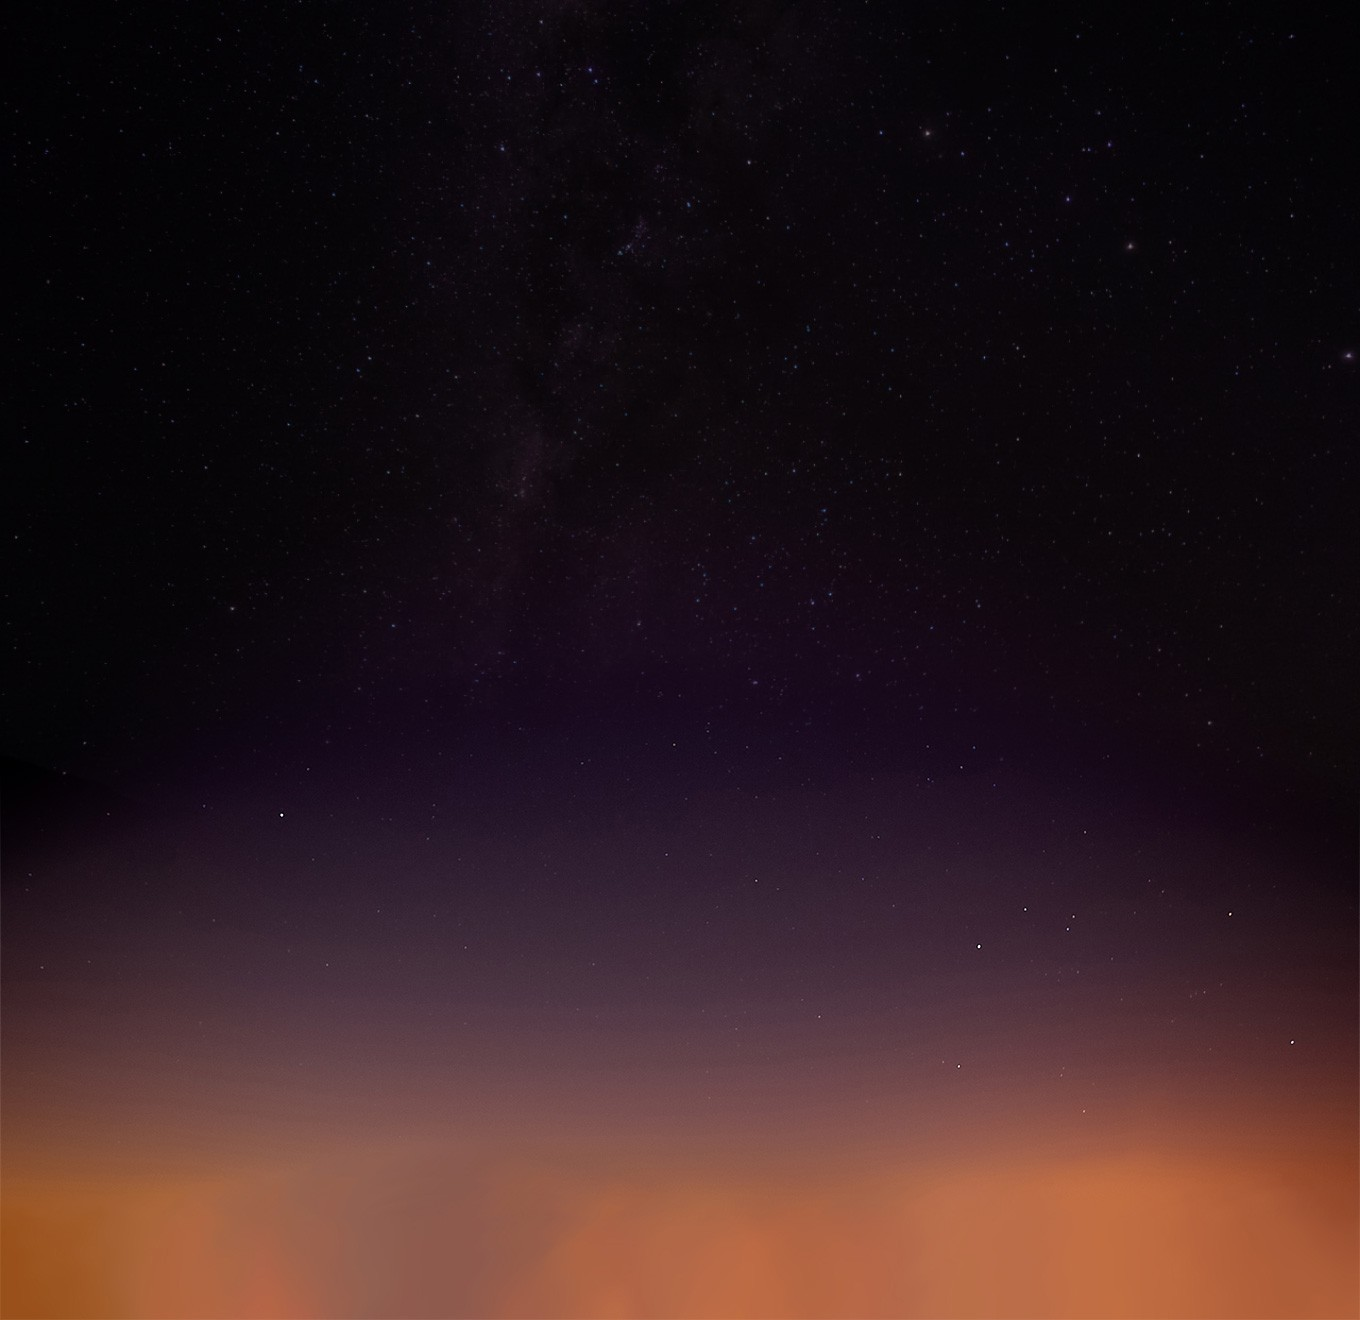
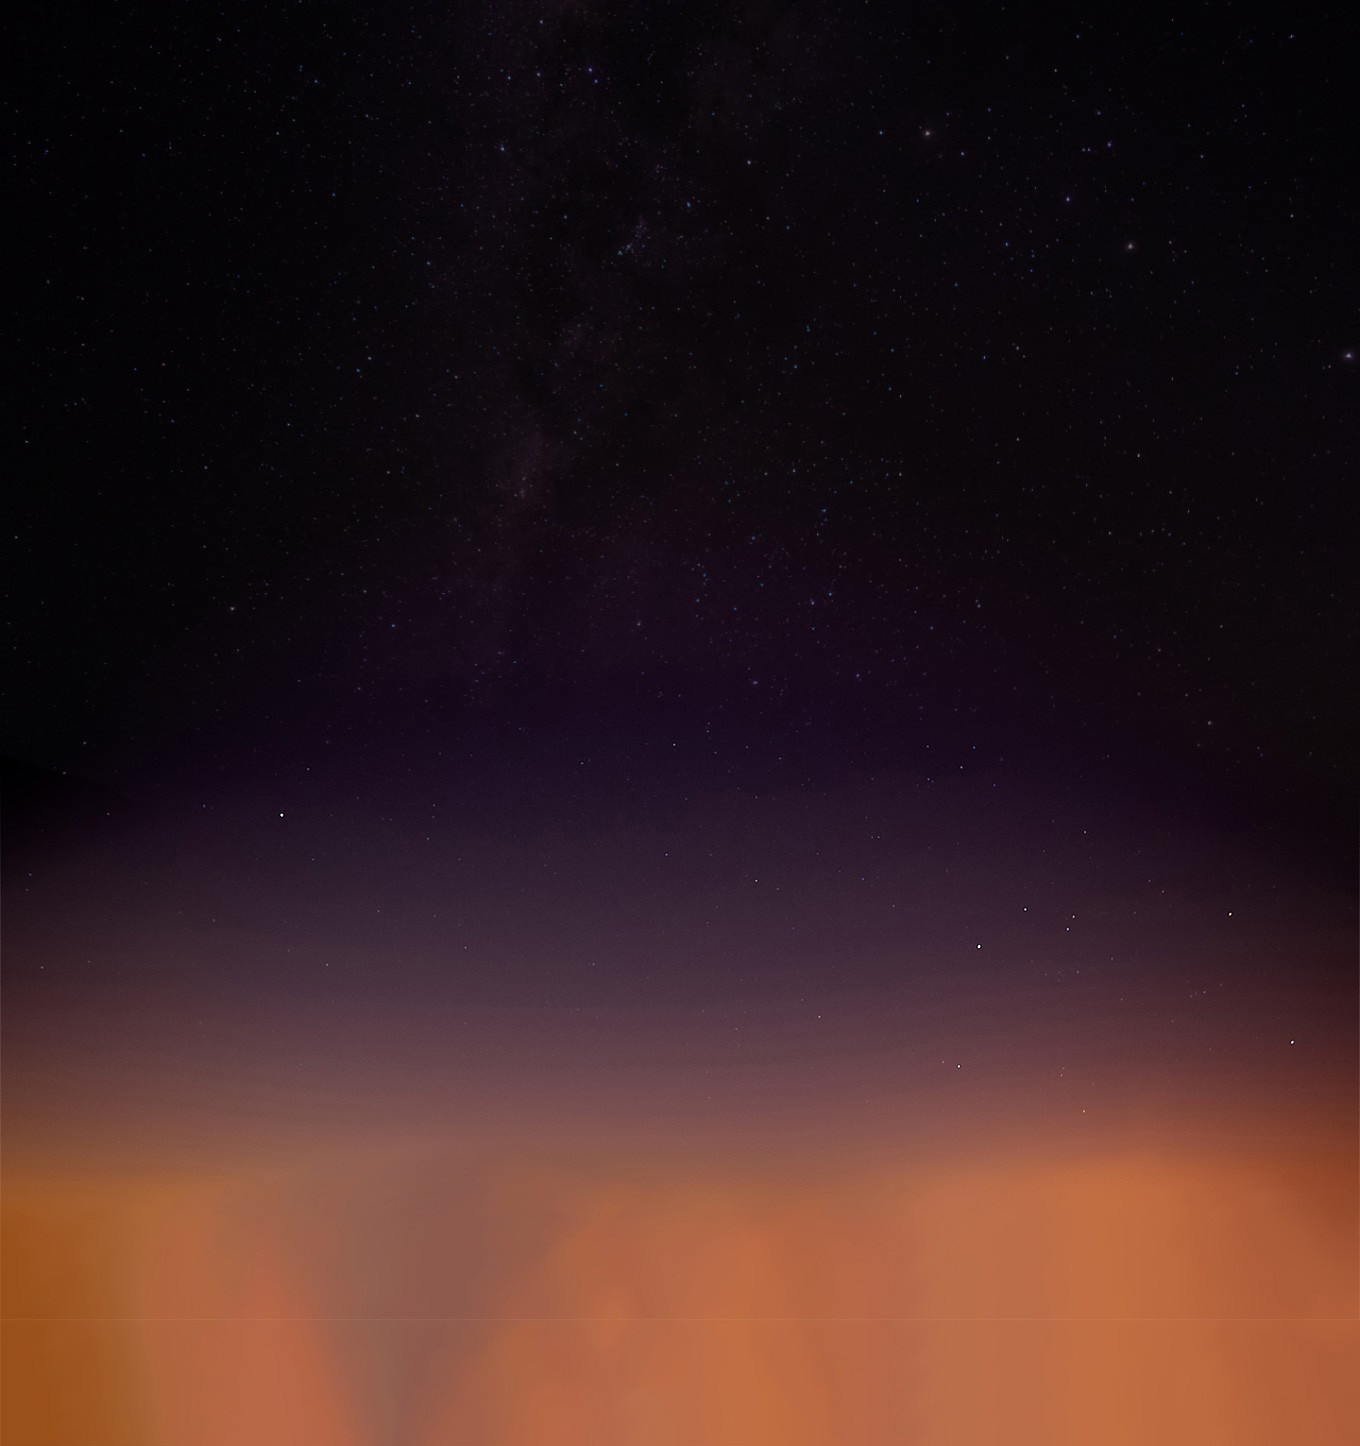
Created main page

Changed region(s): [[0.0, 0.5902, 1.0, 0.9318], [0.3706, 0.9318, 0.4015, 0.9629]]

diff --git a/public/css/style.css b/public/css/style.css
@@ -1,32 +1,82 @@
 html, body {
     height: 100%;
     width: 100%;
-    padding: 0;
-    margin: 0;
-    overflow: hidden;
+    overflow-x: hidden;
+    font-family: 'Lato', sans-serif;
+    background-color: #240802;
 }
 
-#app {
+* {
+    padding: 0;
+    margin: 0;
     position: relative;
-    height: 100%;
-    width: 100%;
+    z-index: 100;
+}
+
+.app {
 }
 
 .parallax {
-    position: absolute;
+}
+
+.parallax-bg {
+    background-repeat: no-repeat;
+    background-size: cover;
     width: 120%;
     left: -10%;
 }
 
-#sand {
-    bottom: -10%;
-    background: url('/img/sand.png') no-repeat;
-    background-size: cover;
-    height: 379px;
+.space {
+    position: absolute;
+    top: 0;
+    height: 100%;
+    background-image: url('/img/space.jpg');
+    background-position: center bottom;
 }
-#space {
-    top: -10%;
-    background: url('/img/space.jpg') no-repeat;
-    background-size: cover;
-    height: 1320px;
+
+.sand {
+    position: absolute;
+    bottom: -10%;
+    min-width: 1200px;
+    min-height: 300px;
+}
+
+.intro {
+    height: 100vh;
+    overflow: hidden;
+    text-align: center;
+}
+
+.logo {
+    position: absolute;
+    left: 0;
+}
+
+.scroll {
+    margin-top: 65px;
+}
+
+.intro-text {
+    position: absolute;
+    top: 40%;
+    left: 50%;
+    margin-left: -50%;
+    padding: 0 20%;
+}
+
+.intro-heading {
+    color: white;
+    font-weight: 100;
+    font-size: 58px;
+    margin-bottom: 50px;
+}
+
+.btn {
+    background-color: #583363;
+    color: white;
+    text-decoration: none;
+    padding: 18px 32px;
+    border-radius: 4px;
+    font-size: 18px;
+    font-weight: 100;
 }

diff --git a/public/index.html b/public/index.html
@@ -3,13 +3,27 @@
     <head>
         <meta charset="utf-8">
         <title>OmniOnline</title>
+        <link href='http://fonts.googleapis.com/css?family=Lato:100,300,400,700,900' rel='stylesheet' type='text/css'>
         <link rel="stylesheet" href="/css/style.css">
         <script src="/js/lib/jquery/dist/jquery.min.js"></script>
     </head>
     <body>
-        <div id="app">
-            <div id="sand" class="parallax" data-near="20"></div>
-            <div id="space" class="parallax" data-near="5"></div>
+        <div class="app">
+            <div id="contact-form" class="contact-form">
+                <form style="padding: 200px;">
+                    Big form
+                </form>
+            </div>
+            <div id="intro" class="intro">
+                <a class="logo" href="#intro"><img src="img/logo.png"></a>
+                <a href="#contact-form"><img class="scroll" src="img/scroll.png"></a>
+                <div class="intro-text">
+                    <h1 class="intro-heading">websites and apps for the people of earth</h1>
+                    <a href="#contact-form" class="btn">Can we help you?</a>
+                </div>
+                <img class="sand parallax parallax-bg" data-near="20" src="img/sand.png">
+            </div>
+            <div class="space parallax parallax-bg" data-near="5"></div>
         </div>
         <script src="/js/scripts.js"></script>
     </body>
